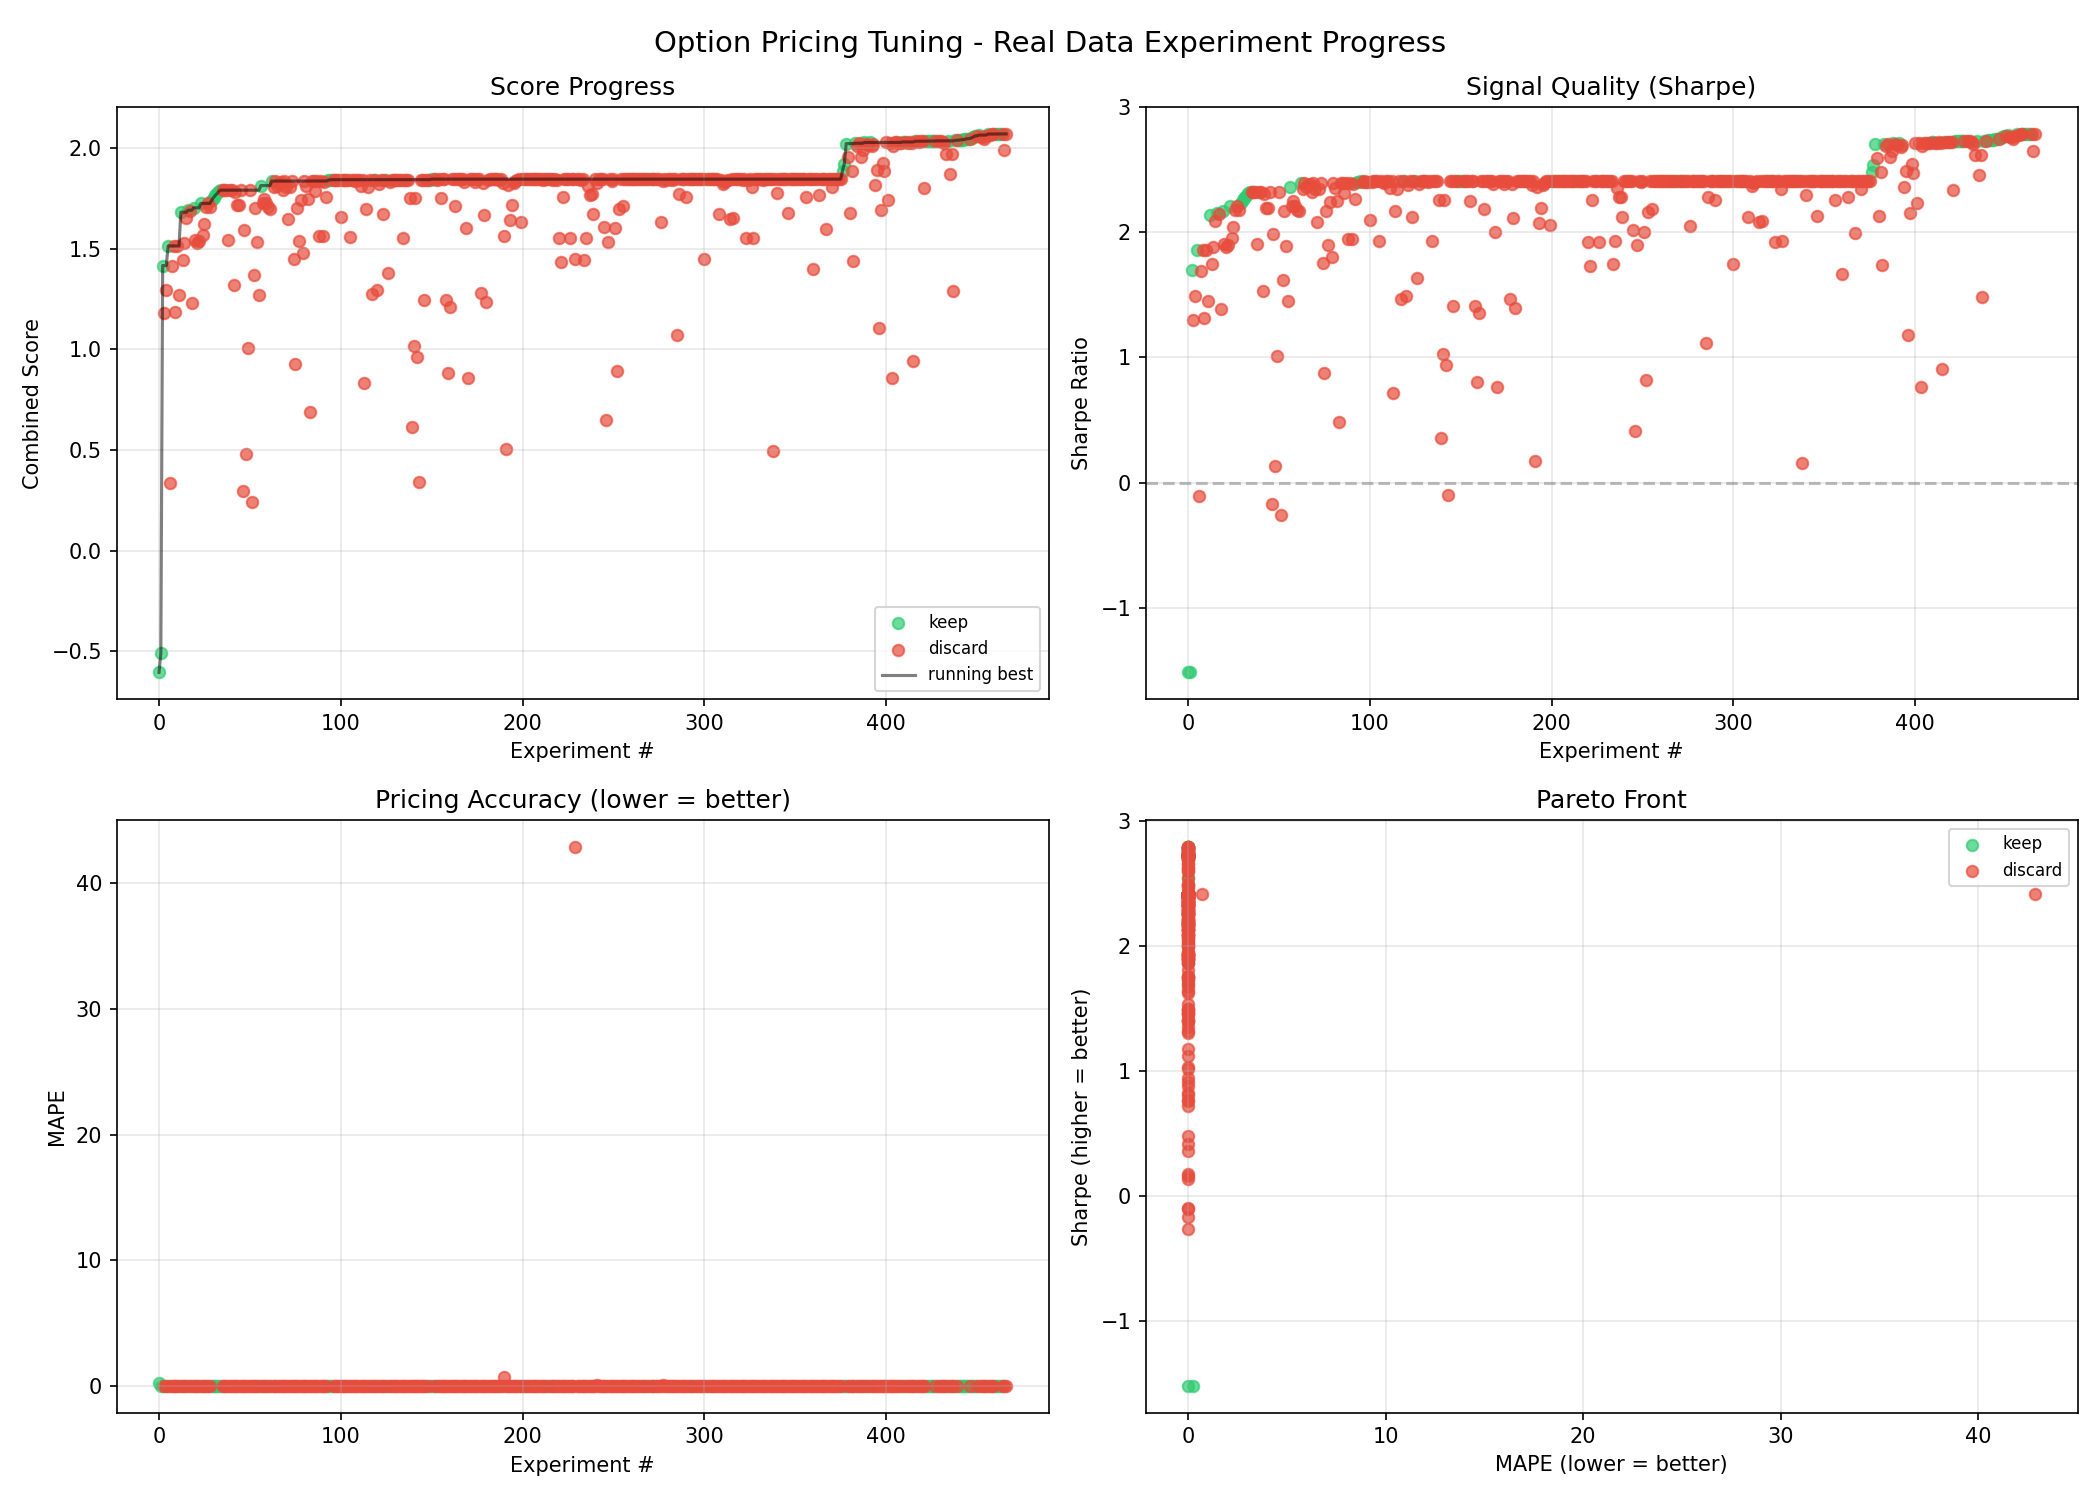
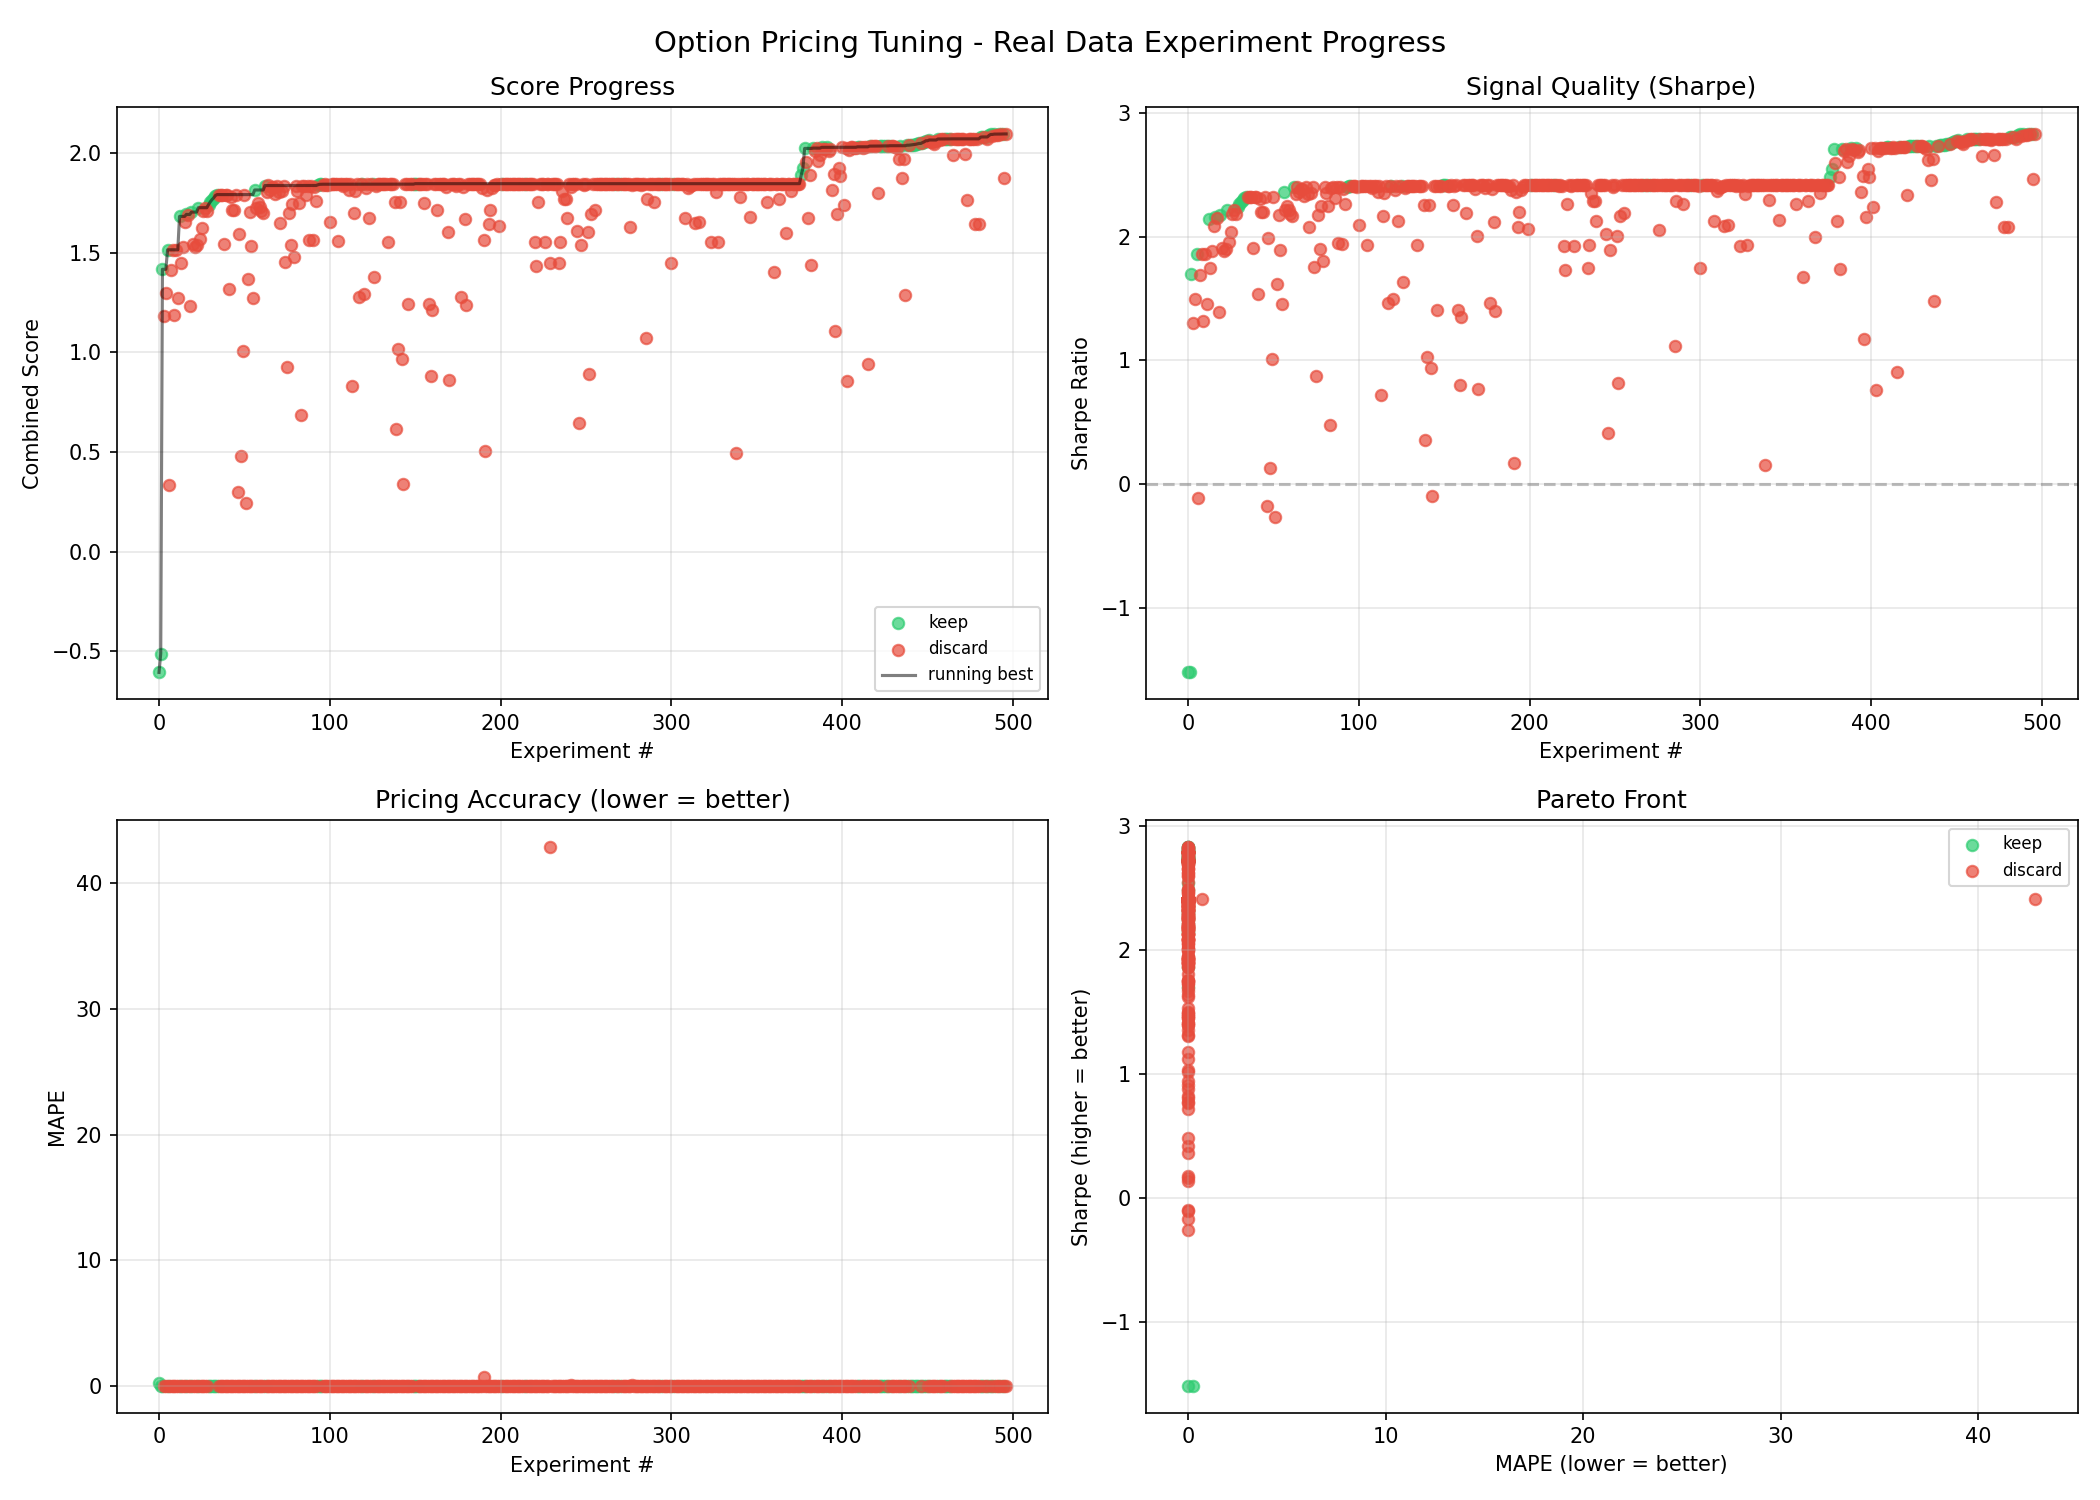
Update progress plot and README (score 2.096034)

diff --git a/README.md b/README.md
@@ -9,12 +9,12 @@ signals using **real stock market data** from Yahoo Finance.
 
 | Metric | Value |
 |---|---|
-| Combined Score | 2.0713 |
-| Sharpe Ratio | 2.7869 |
+| Combined Score | 2.0960 |
+| Sharpe Ratio | 2.8281 |
 | MAPE | 0.002003 |
 | Win Rate | 92.6% |
 | Trades | 27 |
-| Experiments | 467 (62 kept) |
+| Experiments | 497 (70 kept) |
 
 ## How It Works
 
